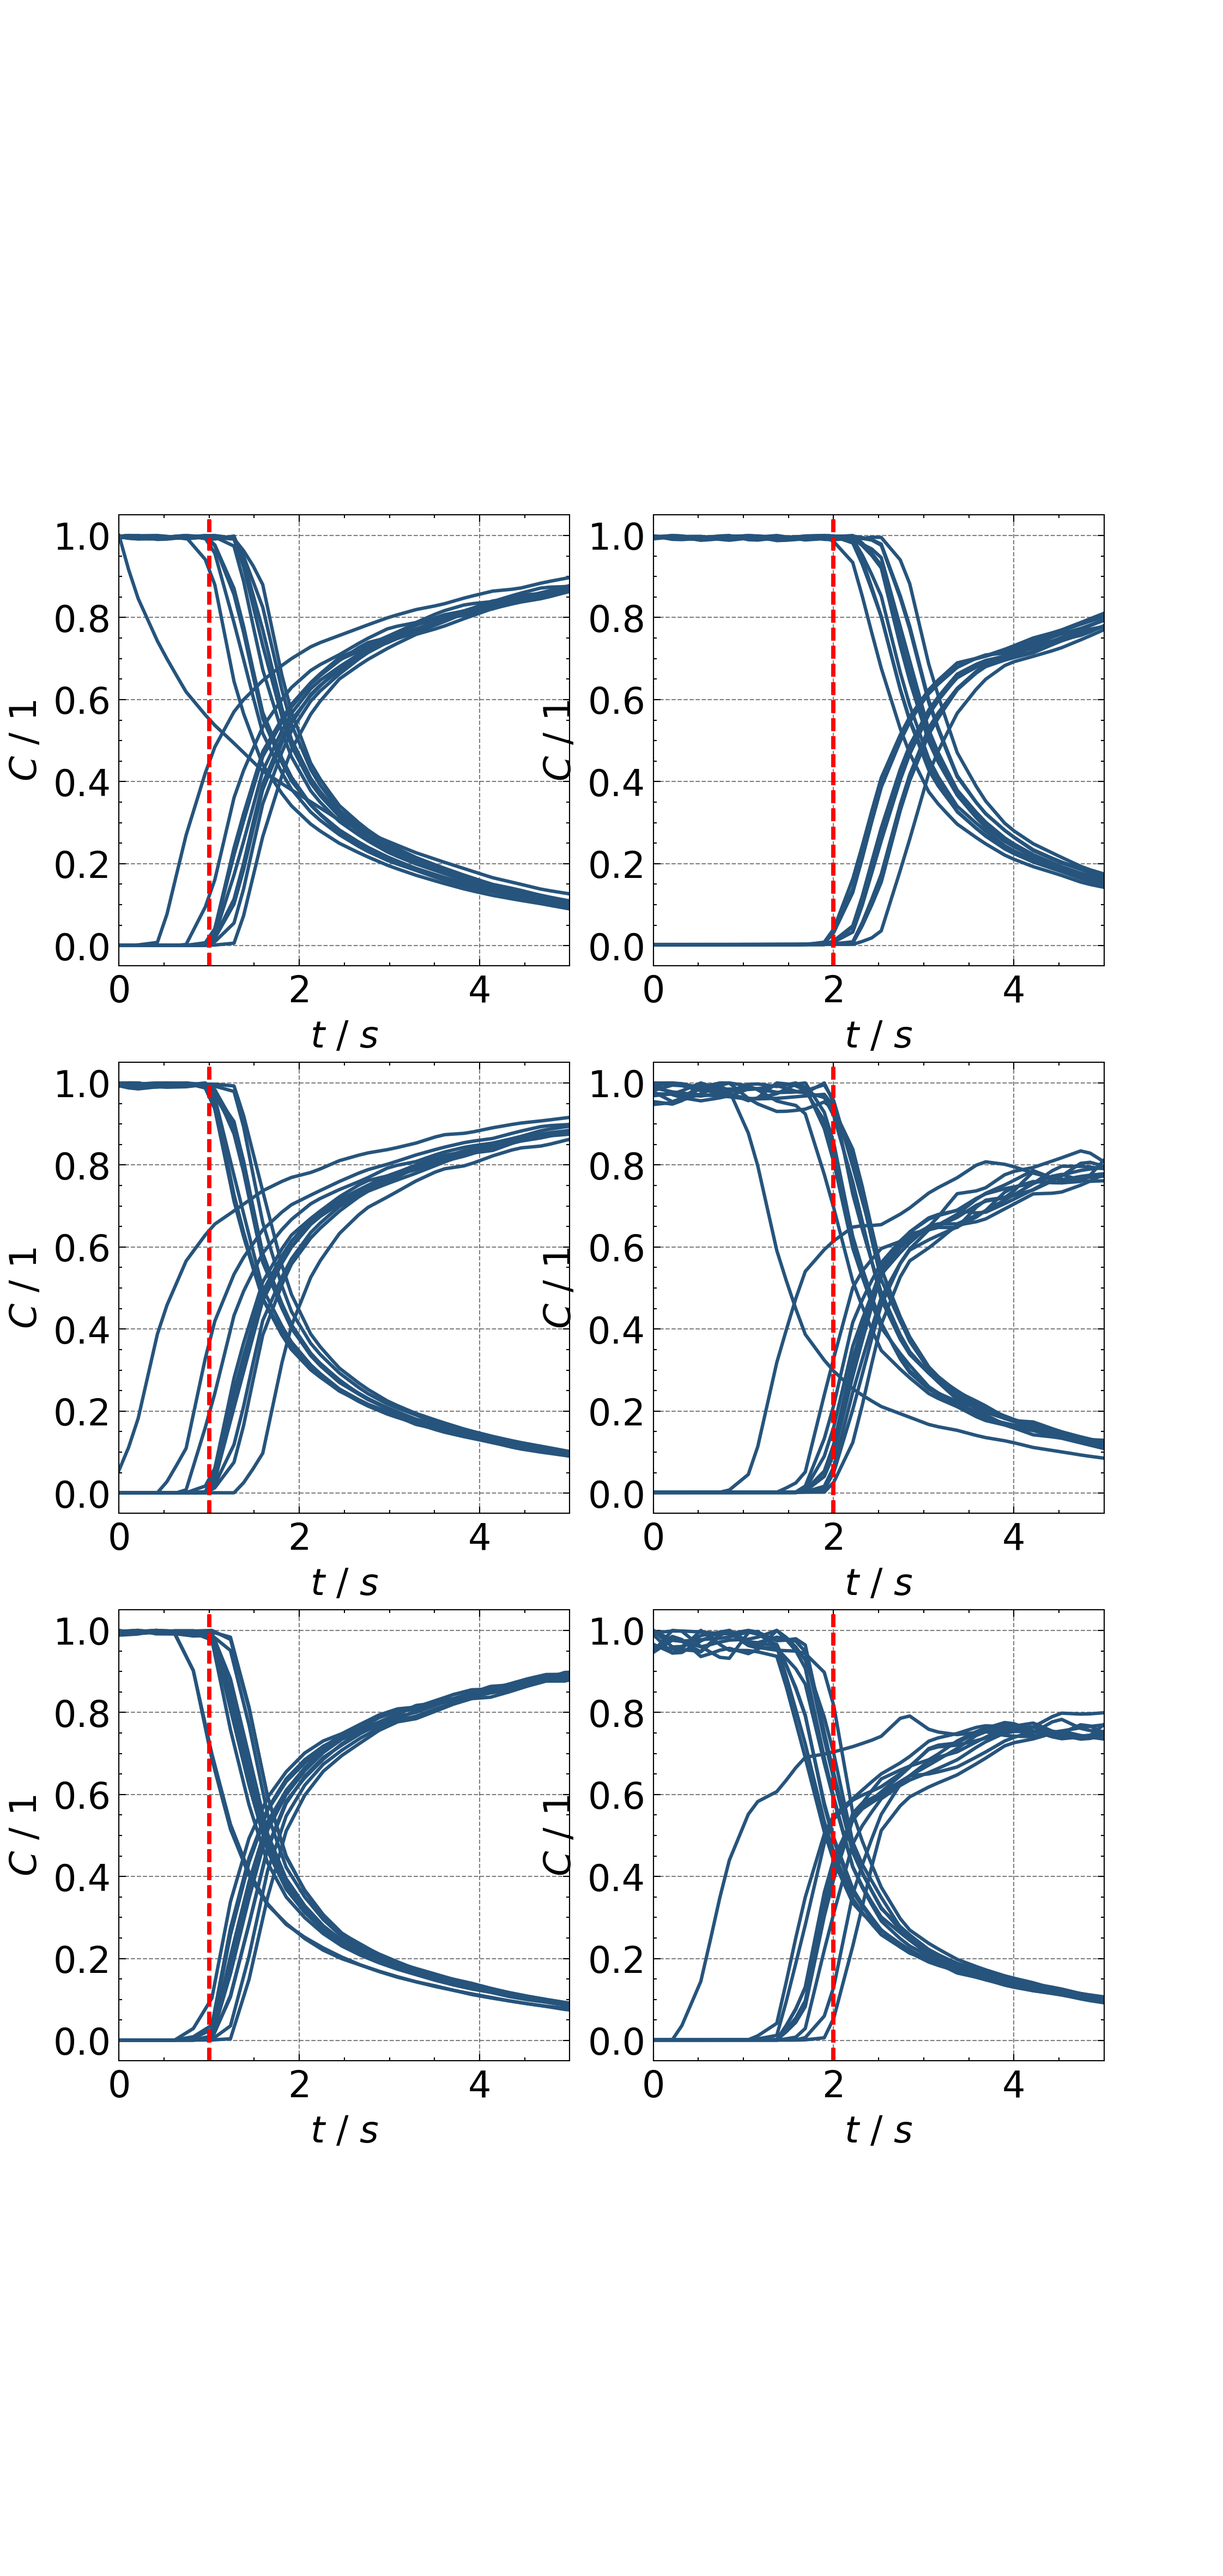
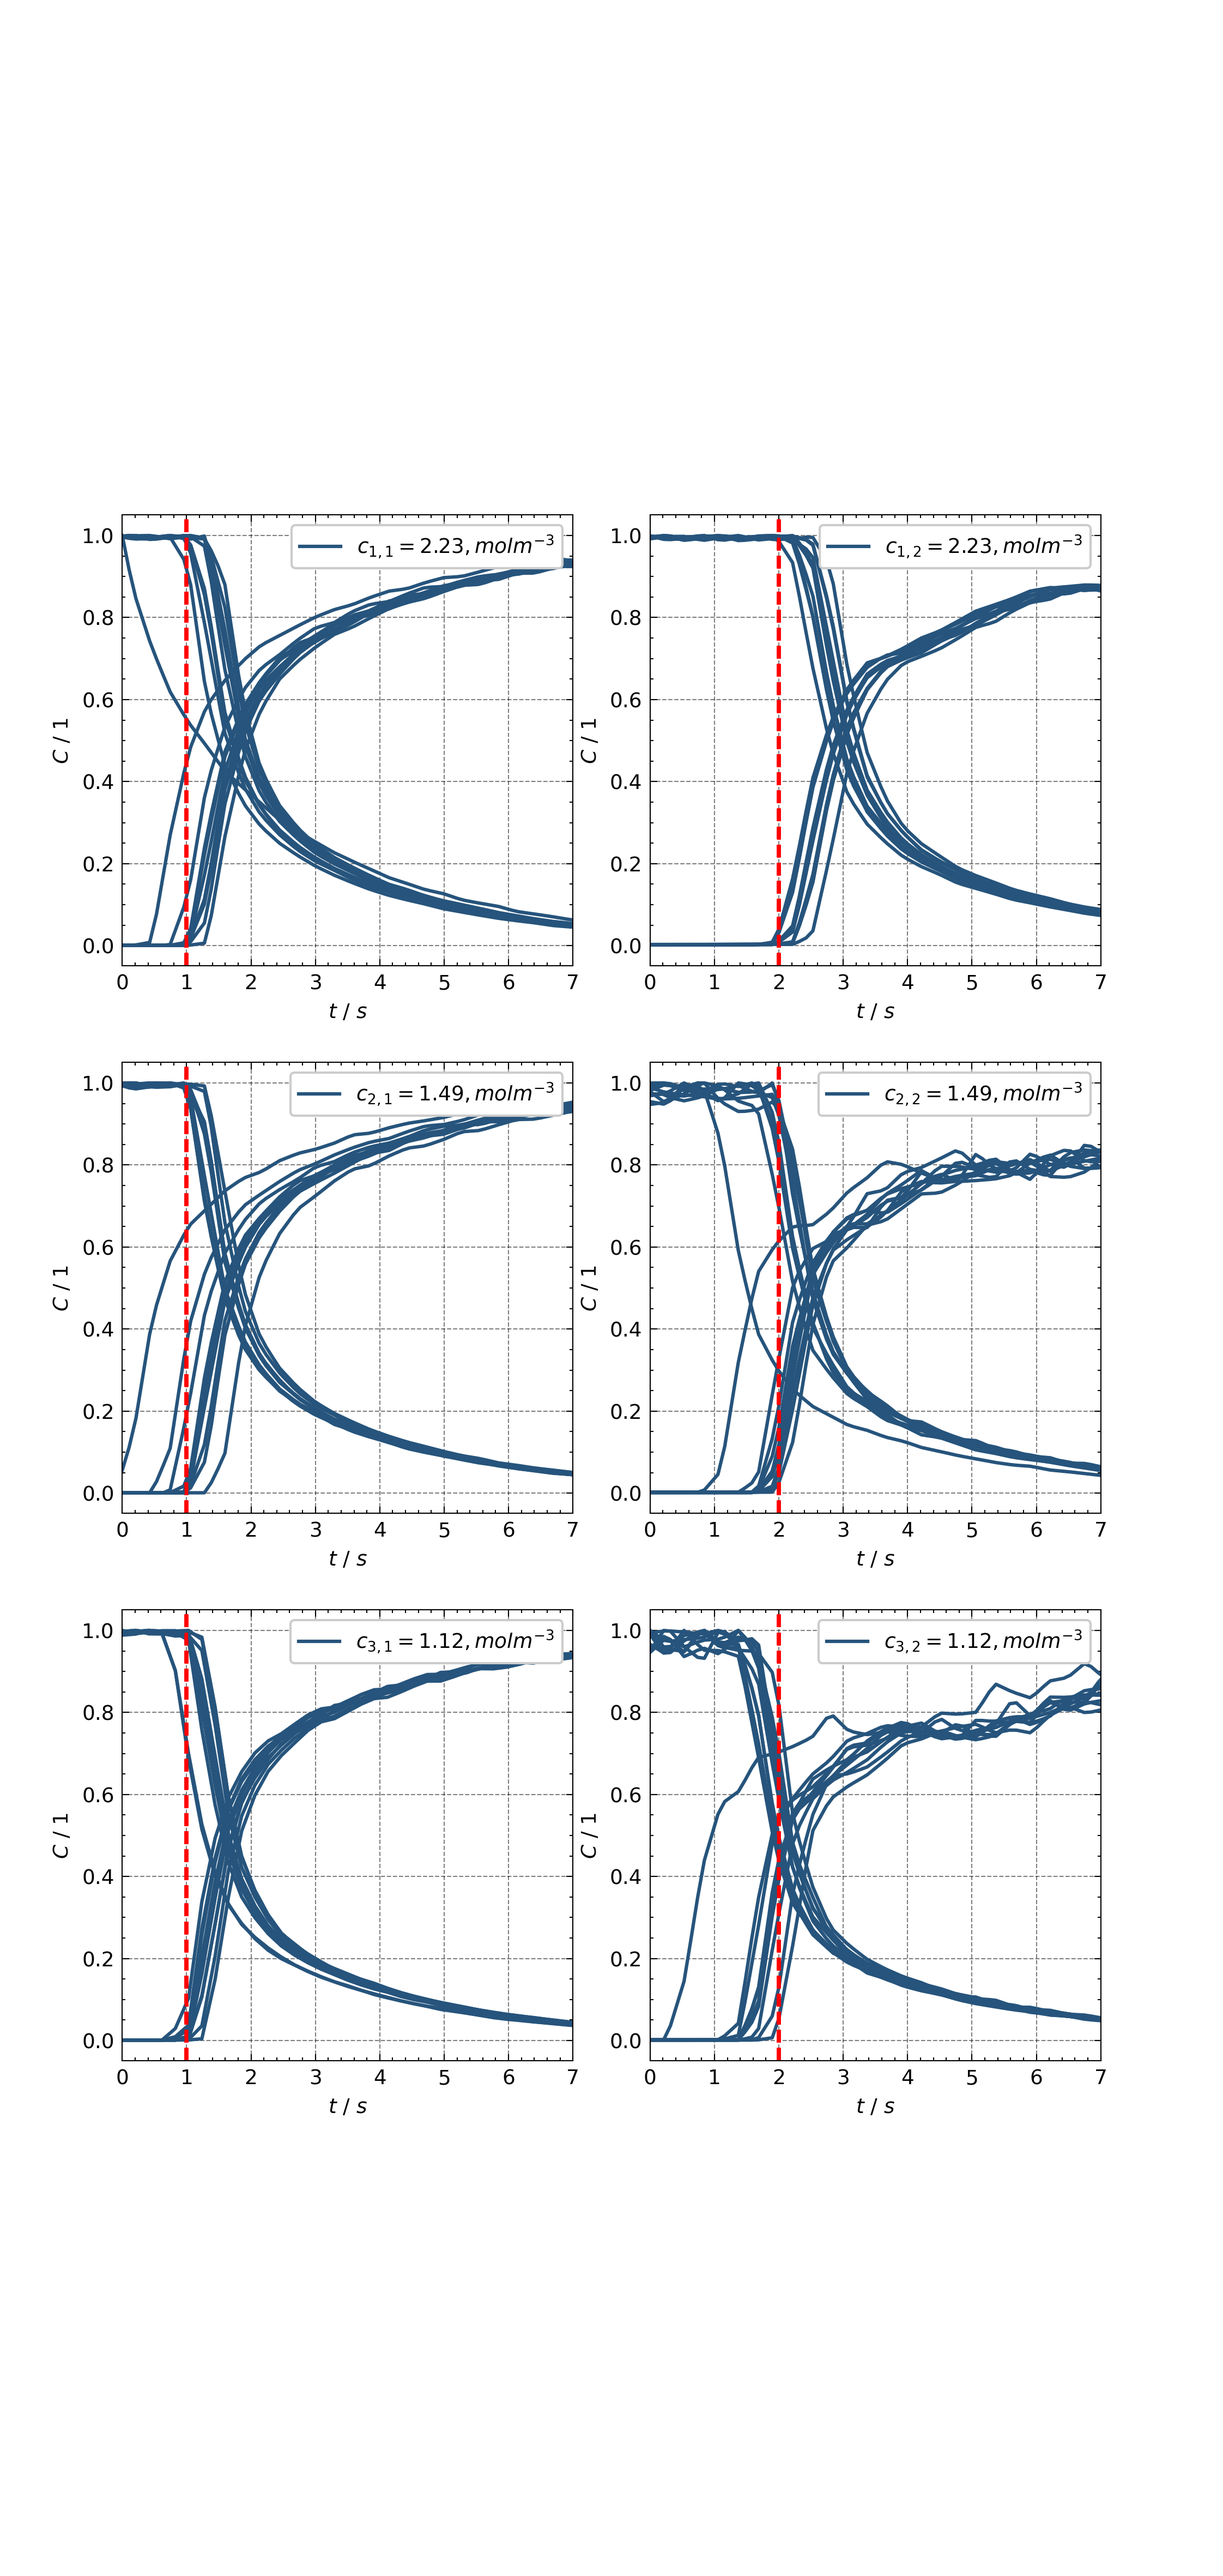
flowrate grapgh

diff --git a/Plots/flowratesgraph.py b/Plots/flowratesgraph.py
@@ -1,0 +1,82 @@
+import numpy as np
+import matplotlib.pyplot as plt
+from pathlib import Path
+import ICIW_Plots.colors as ICIWcolors
+from ICIW_Plots.figures import Elsevier_Sizes
+from ICIW_Plots import make_square_subplots
+from ICIW_Plots import cm2inch  # Assuming this is already defined
+import os
+
+# Define base directory and Windows paths
+base_dir = r"D:\Tuana\nRTD\Plots"
+
+# Define all paths and prefixes (Windows-style paths)
+paths_and_prefixes = [
+    (Path(r"D:\Tuana\nRTD\Data\0001\C_001\H_085_C1\S_009_C1"), "TOA_MGA_20231020_009_"),  # H_085_C1
+    (Path(r"D:\Tuana\nRTD\Data\0001\C_002\H_085_C2\S_012_C2"), "TOA_MGA_20231020_012_"),  # H_085_C2
+    (Path(r"D:\Tuana\nRTD\Data\0001\C_001\H_135_C1\S_010_C1"), "TOA_MGA_20231020_010_"),  # H_135_C1
+    (Path(r"D:\Tuana\nRTD\Data\0001\C_002\H_135_C2\S_013_C2"), "TOA_MGA_20231020_013_"),  # H_135_C2
+    (Path(r"D:\Tuana\nRTD\Data\0001\C_001\H_185_C1\S_007_C1"), "TOA_MGA_20231013_007_"),  # H_185_C1
+    (Path(r"D:\Tuana\nRTD\Data\0001\C_002\H_185_C2\S_014_C2"), "TOA_MGA_20231020_014_")   # H_185_C2
+]
+
+
+# Plotting function adapted to your template
+def plot_all_files_in_subplots():
+    """
+    Plot all processed files for each path in one frame with 6 subplots, each corresponding to a specific path.
+    Only loads files with '_x_processed_norm.npy' and '_t_processed_norm.npy'.
+    """
+    # Prepare the main figure using ICIW_Plots styling
+    plt.style.use("ICIWstyle")
+    fig = plt.figure(figsize=(Elsevier_Sizes.double_column["in"], 40 * cm2inch))  # Increased figure height for better spacing
+    axs = make_square_subplots(
+        fig=fig,
+        ax_width=7 * cm2inch,  # Dimension of the plots
+        ax_layout=(3, 2),  # 3 rows, 2 columns
+        h_sep=1.2 * cm2inch,  # Horizontal separation between plots
+        v_sep=1.5 * cm2inch,  # Vertical separation between plots
+        sharex=True,  # Sharing x-axis between subplots
+        sharey=True,  # Sharing y-axis between subplots
+        xlabel=[r"$t$ / $s$", r"$t$ / $s$"],  # Labels for x-axis (2 columns)
+        ylabel=[r"$C$ / $1$", r"$C$ / $1$", r"$C$ / $1$"]   # Labels for y-axis (2 columns)
+    )
+    legend_labels = [
+r"$c_{1,1} = 2.23,molm^{-3}$", # First column, first row
+        r"$c_{1,2} = 2.23,molm^{-3}$",  # Second column, first row
+        r"$c_{2,1} = 1.49,molm^{-3}$",  # First column, second row
+        r"$c_{2,2} = 1.49,molm^{-3}$",  # Second column, second row
+        r"$c_{3,1} = 1.12,molm^{-3}$",  # First column, third row
+        r"$c_{3,2} = 1.12,molm^{-3}$"   # Second column, third row
+    ]
+
+    # Loop through each path and prefix and plot in the corresponding subplot
+    for i, (path, prefix) in enumerate(paths_and_prefixes):
+        # Find all files that end with the appropriate suffix
+        t_files = sorted(path.glob(f"{prefix}*t_processed_norm.npy"))
+        x_files = sorted(path.glob(f"{prefix}*x_processed_norm.npy"))
+        
+        # Get the current axis to plot on
+        ax = axs[i // 2, i % 2]  # Positioning based on the index
+        ax.set_xlabel(r"$t$ / $s$")
+        ax.set_ylabel(r"$C$ / $1$")
+
+        # Plot all files in the current path on the same subplot
+        for t_file_path, x_file_path in zip(t_files, x_files):
+            t_pretty = np.load(t_file_path)
+            x_evel = np.load(x_file_path)
+            ax.plot(t_pretty, x_evel, label=f"{t_file_path.stem}", color=ICIWcolors.CERULEAN)
+            ax.set_xlim([0, 5])
+            ax.legend([legend_labels[i]], loc='best')  # Add the custom legend for the current subplot
+
+            if i % 2 == 0:  # Left side column
+                ax.axvline(x=1, color="red", linestyle='--', label="x = 1")
+            else:  # Right side column
+                ax.axvline(x=2, color="red", linestyle='--', label="x = 2")
+        
+    # Save the plot
+    plt.savefig(os.path.join(base_dir, "exp.png"), dpi=300)
+    plt.show()
+
+# Call the function to plot all files
+plot_all_files_in_subplots()
